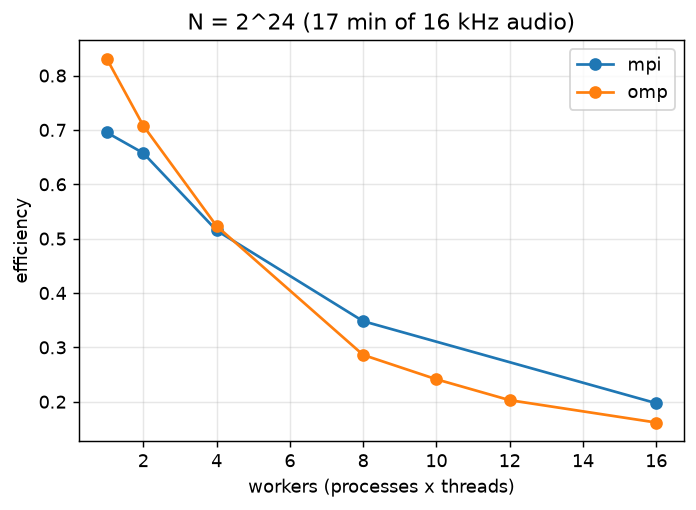
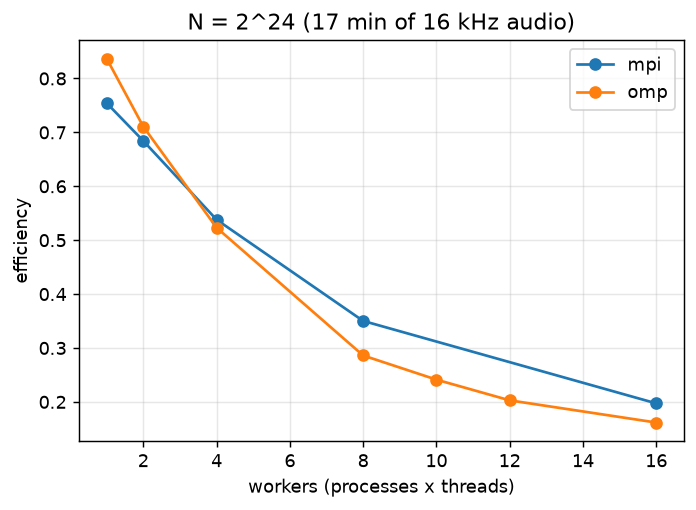
Re-run full matrix on real Urdu speech input + 2^26 scaling
2^24 real input: seq 2.02 s, OpenMP 2.53x ceiling, hybrid 4x4 3.21x
(0.629 s) - matches the synthetic run within noise (input-independence
demonstrated, synthetic csvs archived). 2^26: OpenMP 2.78x; the hybrid's
4 GiB working set exceeds free RAM and pages (81-90% exchange share) -
the measured case for multi-machine distribution.

diff --git a/report/REPORT.md b/report/REPORT.md
@@ -90,10 +90,15 @@ Method: best of 3 repetitions (5 for the crossover), timing only the transform
 
 ### 5.1 Sequential baseline
 
-| Machine | 2^24 sequential FFT (best of 3) |
-|---|---|
-| Laptop (i7-13620H) | **1.98 s** |
-| Colab free VM | 4.95 s |
+| Machine | Input | Sequential FFT (best of 3) |
+|---|---|---|
+| Laptop (i7-13620H) | 2^24 (17.5 min Urdu speech) | **2.02 s** |
+| Laptop (i7-13620H) | 2^26 (70 min Urdu speech) | 8.29 s |
+| Colab free VM | 2^24 | 4.95 s |
+
+All laptop numbers below use the real Urdu signal. A full matrix was also run on a
+synthetic signal (archived in `results/*_synthetic.csv`): every cell matches within
+run-to-run noise, demonstrating that FFT runtime is input-independent.
 
 (NumPy's optimized library FFT takes ~1.0 s on the same laptop — a useful sanity bound:
 our from-scratch kernel is within 2× of a tuned library.)
@@ -102,14 +107,18 @@ our from-scratch kernel is within 2× of a tuned library.)
 
 | Threads | Best time | Speedup | Efficiency |
 |---|---|---|---|
-| seq (V1) | 1.982 s | 1.00× | — |
-| 1 | 2.309 s | 0.86× | 0.86 |
-| 2 | 1.356 s | 1.46× | 0.73 |
-| 4 | 0.917 s | 2.16× | 0.54 |
-| 8 | 0.839 s | 2.36× | 0.30 |
-| 10 | 0.796 s | 2.49× | 0.25 |
-| 12 | 0.789 s | 2.51× | 0.21 |
-| 16 | 0.790 s | **2.51×** | 0.16 |
+| seq (V1) | 2.020 s | 1.00× | — |
+| 1 | 2.294 s | 0.88× | 0.88 |
+| 2 | 1.351 s | 1.50× | 0.75 |
+| 4 | 0.934 s | 2.16× | 0.54 |
+| 8 | 0.844 s | 2.39× | 0.30 |
+| 10 | 0.800 s | 2.53× | 0.25 |
+| 12 | 0.812 s | 2.49× | 0.21 |
+| 16 | 0.798 s | **2.53×** | 0.16 |
+
+At 2^26 the same 16-thread configuration reaches 2.98 s vs 8.29 s sequential =
+**2.78×** — slightly better than at 2^24, since more work per stage amortizes the
+per-stage parallel-region overhead.
 
 Two effects dominate. First, **parallelization overhead is real and measured**: with
 one thread, V2 is slower than V1 (the flattened loop pays an integer div/mod per
@@ -122,17 +131,17 @@ DRAM; beyond the 10 physical cores the SMT siblings add almost nothing.
 
 | Procs × threads | Workers | Best time | Speedup | Efficiency | Comm share |
 |---|---|---|---|---|---|
-| 1 × 1 | 1 | 2.761 s | 0.72× | 0.72 | 25% |
-| 2 × 1 | 2 | 1.460 s | 1.36× | 0.68 | 30% |
-| 4 × 1 | 4 | 0.932 s | 2.13× | 0.53 | 36% |
-| 8 × 1 | 8 | 0.689 s | 2.88× | 0.36 | 47% |
-| 1 × 8 | 8 | 1.044 s | 1.90× | 0.24 | 58% |
-| 1 × 16 | 16 | 0.909 s | 2.18× | 0.14 | 64% |
-| 2 × 4 | 8 | 0.770 s | 2.57× | 0.32 | 42% |
-| 2 × 8 | 16 | 0.674 s | 2.94× | 0.18 | 47% |
-| **4 × 4** | 16 | **0.608 s** | **3.26×** | 0.20 | 45% |
+| 1 × 1 | 1 | 2.545 s | 0.79× | 0.79 | 23% |
+| 2 × 1 | 2 | 1.403 s | 1.44× | 0.72 | 28% |
+| 4 × 1 | 4 | 0.892 s | 2.26× | 0.57 | 37% |
+| 8 × 1 | 8 | 0.685 s | 2.95× | 0.37 | 46% |
+| 1 × 8 | 8 | 1.028 s | 1.97× | 0.25 | 59% |
+| 1 × 16 | 16 | 0.970 s | 2.08× | 0.13 | 66% |
+| 2 × 4 | 8 | 0.777 s | 2.60× | 0.33 | 45% |
+| 2 × 8 | 16 | 0.677 s | 2.98× | 0.19 | 46% |
+| **4 × 4** | 16 | **0.629 s** | **3.21×** | 0.20 | 46% |
 
-Three observations. (1) **The hybrid beats pure OpenMP** (3.26× vs 2.51×): the
+Three observations. (1) **The hybrid beats pure OpenMP** (3.21× vs 2.53×): the
 four-step's row FFTs walk contiguous 4096-point rows that fit in L2 cache, where V2's
 late stages stride across the whole 256 MiB array. (2) **Balanced procs × threads wins**
 — 4×4 beats both 8×1 (more ranks = more transpose traffic) and 1×16 (one rank's
@@ -145,6 +154,16 @@ The hybrid's printed communication share isolates the transposes. Even on one ma
 fraction of runtime — this is the memory traffic of pack → exchange → unpack. The
 four-step with P = 1 is also our "row-parallel" OpenMP variant, contrasting with V2's
 "butterfly-parallel" strategy.
+
+### 5.3b When the problem outgrows the machine (2^26)
+
+At 2^26 OpenMP still works (working set 1 GiB), but the hybrid needs **4 GiB** of
+buffers (data + transposed view + send + recv) on a laptop with 7.7 GB of RAM and
+~1.7 GB free: the 4×4 run took 10.7 s — slower than sequential — with 81–90% of the
+time in the exchange phase, because Windows was **paging the buffers to disk** during
+the transposes. This is the distributed-memory argument made concrete: beyond this
+size the four-step FFT needs more *machines*, not more threads — at 2^28 (4 GiB of
+raw data, 16 GiB of buffers) no single laptop in the group could even allocate it.
 
 ### 5.4 Control run: Colab's 2 vCPUs
 
@@ -191,7 +210,7 @@ threads across frames) is the industrially realistic use of this project's code.
 ### 5.7 Bonus row: a GPU library on the same signal
 
 cuFFT (via CuPy) on Colab's Tesla T4 transforms the same 2^24-point Urdu signal in
-**29.0 ms** (max rel. error vs numpy 4.4e-16) — 68× our sequential C and 21× our best
+**29.0 ms** (max rel. error vs numpy 4.4e-16) — 70× our sequential C and 22× our best
 hybrid run. This is not a like-for-like comparison (a decade-tuned vendor library on
 specialised hardware vs our from-scratch CPU code); it is the industry context: FFTs
 at scale run on GPUs, and the four-step structure we implemented — batched local FFTs
@@ -202,7 +221,7 @@ separated by transposes — is the same structure cuFFTMp uses across multiple G
 **Speedup / efficiency / Amdahl.** S(p) = T_seq/T_p, E(p) = S(p)/p, plotted in
 `results/`. From the measured OpenMP curve, the speedup ceiling of ~2.5× implies an
 effective serial-equivalent fraction of ~0.37 by Amdahl's 1/((1−f)+f/p) as p→∞ —
-but the hybrid's 3.26× on the same machine proves most of that "serial fraction" is
+but the hybrid's 3.21× on the same machine proves most of that "serial fraction" is
 really memory-bandwidth contention and cache-unfriendly strides, not inherently serial
 code: changing the access pattern (row FFTs) raised the ceiling without changing the
 arithmetic.
